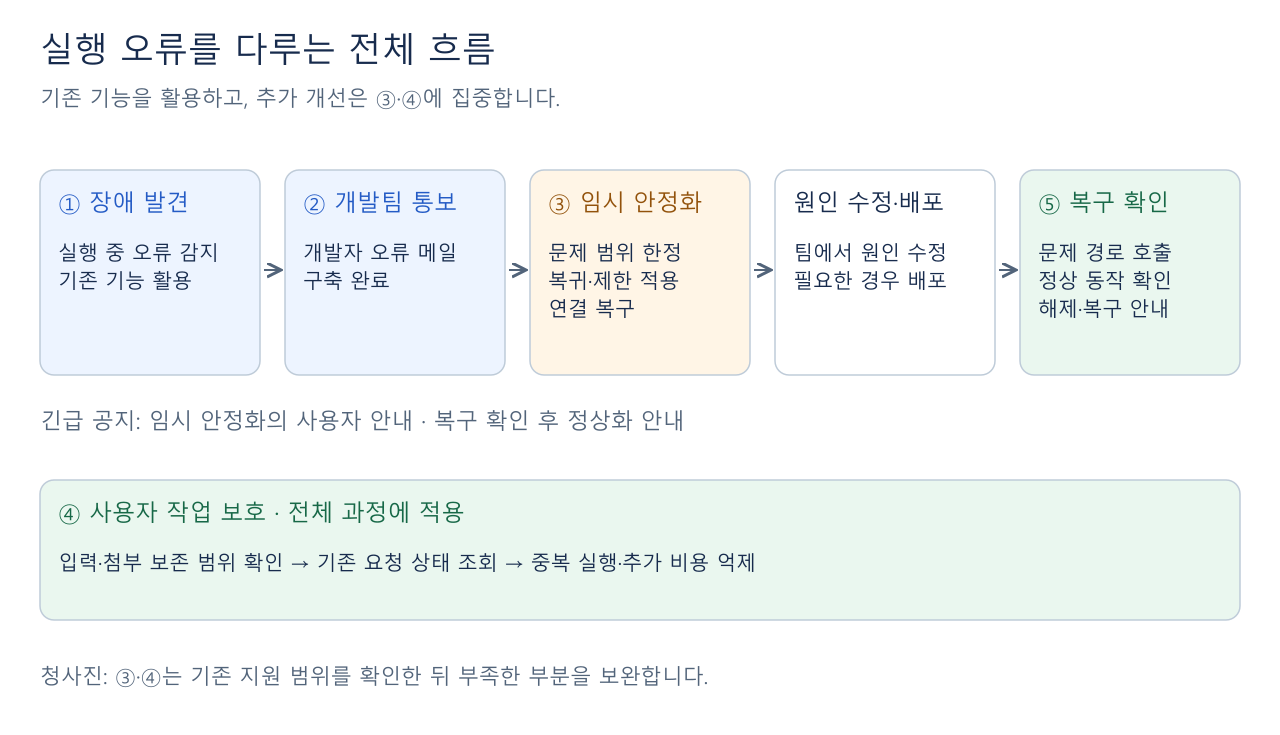
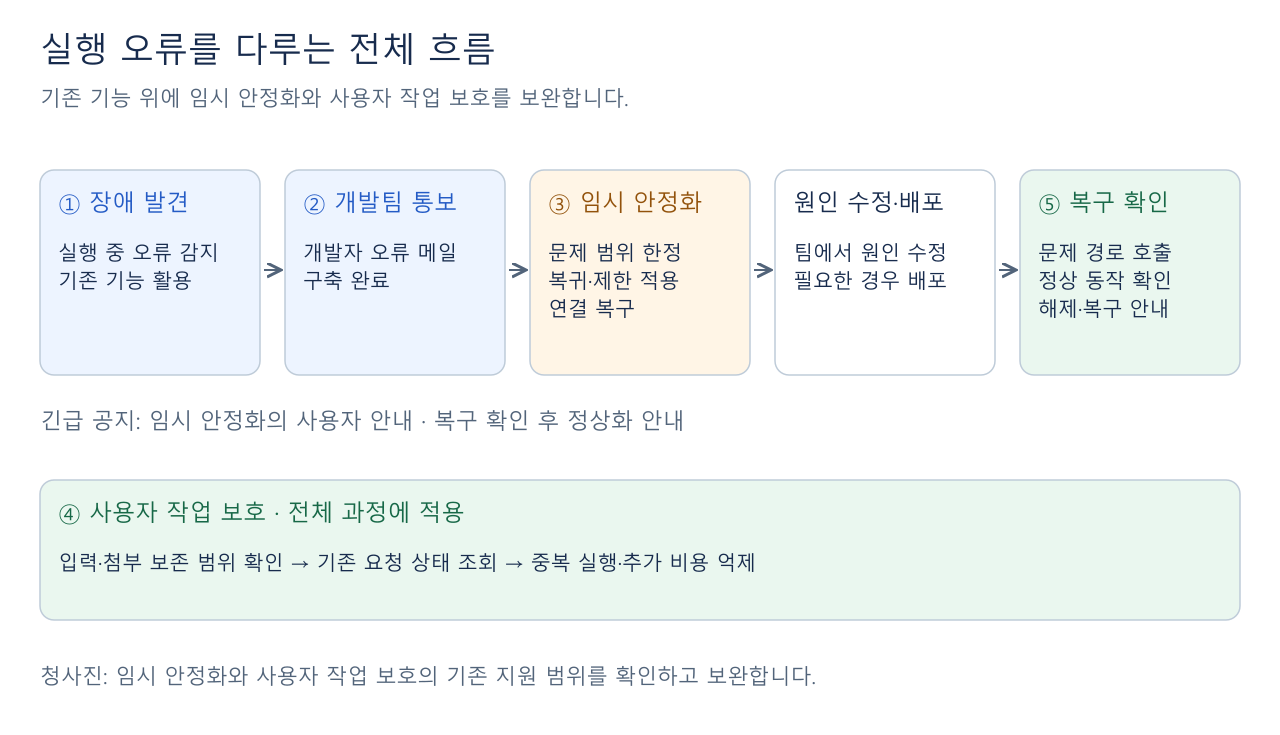
docs: 리스크 관리 단계의 숫자 약칭을 명칭으로 풀어쓰기

Changed region(s): [[0.0938, 0.898, 0.625, 0.9578], [0.0938, 0.1197, 0.5, 0.1497]]

diff --git a/ZENAI/99. 개선 내역/02. Enhancement/3. 사용자 리스크 관리 기준과 청사진 후보 (2026-11-09).md b/ZENAI/99. 개선 내역/02. Enhancement/3. 사용자 리스크 관리 기준과 청사진 후보 (2026-11-09).md
@@ -33,7 +33,7 @@
 
 [그림 확대](자료/03-user-risk-management/06-runtime-team-flow.svg) · [Excalidraw 원본](자료/03-user-risk-management/06-runtime-team-flow.excalidraw)
 
-**④는 전체 과정에 걸쳐 유지한다.** 팀은 원인을 조사·수정하고 필요한 경우 배포하며, 사용자 작업은 그동안 계속 보호한다.
+**사용자 작업 보호는 전체 과정에 걸쳐 유지한다.** 팀은 원인을 조사·수정하고 필요한 경우 배포하며, 사용자 작업은 그동안 계속 보호한다.
 
 > [!note] 긴급 공지의 위치
 > **긴급 공지는 ③ 임시 안정화의 사용자 안내 수단**이다. 오류 메일로 상황을 인지하면 기존 공지 기능으로 장애·주의사항을 알리고, 실제 복구를 확인한 뒤 복구 공지를 게시한다.
@@ -47,7 +47,7 @@
 | **팀의 운영 절차** | 원인 조사·수정, 필요한 배포, 실제 호출을 통한 복구 확인 |
 | **추가 개선** | **③ 임시 안정화·④ 사용자 작업 보호의 지원 범위를 조사하고 부족한 부분 보완** |
 
-③·④를 처음부터 모두 새로 만드는 것은 아니다. 초안 저장·중복 접수 방지 등 기존 기반을 먼저 활용한다.
+임시 안정화와 사용자 작업 보호를 처음부터 모두 새로 만드는 것은 아니다. 초안 저장·중복 접수 방지 등 기존 기반을 먼저 활용한다.
 
 ## 2. 리스크 관리가 잘 되는지 판단하는 기준
 
@@ -64,7 +64,7 @@
 | **확실한 복구** | 문제가 발생했던 실제 호출이 성공하고, 남은 미완료·결과 불명 작업도 확인했는가? |
 | **지속 가능한 운영** | 공통 대응 절차를 반복 적용할 수 있고, 재시작 후에도 필요한 실행 상태·조치 기록을 확인할 수 있는가? |
 
-### 2-2. 남은 ③·④에는 어떻게 적용하는가?
+### 2-2. 남은 임시 안정화와 사용자 작업 보호에는 어떻게 적용하는가?
 
 | 개선 대상 | 성공 여부를 판단할 핵심 |
 | --- | --- |
@@ -105,7 +105,7 @@
 | **C. 작업 확인 후 안전하게 재개** | 실행 중단·연결 끊김·처리 결과 불명 | 원래 요청과 외부 처리 결과를 확인해 안전한 단계만 재개한다. **기존 실행과의 중복을 막고 현재 권한을 확인한다.** |
 | **D. 계정·도구 문제만 복구** | 특정 사용자의 인증 만료·도구 연결 문제 | 해당 범위의 재인증·재연결을 안내한다. 정당한 권한 거절과 안전 거부는 유지한다. |
 
-**A·B·D는 주로 ③, C는 주로 ④와 연결된다.** 주된 역할에 따른 구분이며 여러 방법을 함께 쓸 수 있다. 모든 대응에서 사용자 작업 보호를 함께 적용한다.
+**A·B·D는 주로 임시 안정화, C는 주로 사용자 작업 보호와 연결된다.** 주된 역할에 따른 구분이며 여러 방법을 함께 쓸 수 있다. 모든 대응에서 사용자 작업 보호를 함께 적용한다.
 
 ### 4-2. 실행 중 어떤 상황에 어떤 방법이 적합한가?
 
@@ -136,11 +136,11 @@
 - **보호:** 기존 메시지·run/task 등 실행 기록으로 원래 요청을 조회하고, 필요한 기록만 보완한다. 업무 원문·첨부·인증정보를 별도 대응 기록에 복제하지 않는다.
 - **일관성:** 일반·생성 하네스·Builtin의 영향받은 실행 경로에 같은 보호 원칙을 적용한다.
 
-### 5-2. ③·④는 무엇부터 작업하는가?
+### 5-2. 임시 안정화와 사용자 작업 보호는 무엇부터 작업하는가?
 
-**③은 3-1의 세 가지 할 일을 장애 유형별 공통 대응 절차로 정리하고, 팀이 기존 수단으로 실행하는 것부터 시작한다.** 기존 수단으로 수행할 수 없는 제한·복구 동작만 기능을 보완한다.
+**임시 안정화는 3-1의 세 가지 할 일을 장애 유형별 공통 대응 절차로 정리하고, 팀이 기존 수단으로 실행하는 것부터 시작한다.** 기존 수단으로 수행할 수 없는 제한·복구 동작만 기능을 보완한다.
 
-**④는 기존 보존·상태 확인·중복 방지 기능을 조사한 뒤 부족한 부분부터 보완한다.** 외부 결과를 확인할 수 있는 특정 업무부터 안전한 재개를 검토한다.
+**사용자 작업 보호는 기존 보존·상태 확인·중복 방지 기능을 조사한 뒤 부족한 부분부터 보완한다.** 외부 결과를 확인할 수 있는 특정 업무부터 안전한 재개를 검토한다.
 
 여기서 **수동 대응**은 3-1의 판단·조치를 팀이 실행한다는 뜻이다. 문제 범위 판단 → 대응 적용 → 실제 호출 확인·해제를 공통 절차로 정리한다. 해당 실행 수단이 없으면 절차와 함께 기능 보완이 필요하다.
 
@@ -159,7 +159,7 @@
 | --- | --- | --- |
 | **1. 현재 기능과 사례 조사** | 입력·첨부·실행 상태의 보존 범위와 실제 실행 오류 확인 | 이미 지원하는 보호와 부족한 부분 구분 |
 | **2. 상황별 대응표 확정** | 오류별 조치·실행 조건·해제 조건 정리 | 팀이 함께 활용할 공통 대응 절차 |
-| **3. ③·④의 부족한 기능 보완** | 필요한 제한 수단·상태 안내·작업 보존·중복 방지 구현 | 기존 기능을 재사용한 최소 변경 |
+| **3. 임시 안정화와 사용자 작업 보호의 부족한 기능 보완** | 필요한 제한 수단·상태 안내·작업 보존·중복 방지 구현 | 기존 기능을 재사용한 최소 변경 |
 | **4. 동작과 부작용 검증** | 정상 기능 유지·보존·중복 방지·복구 확인 | 일반·하네스·Builtin의 영향받은 경로에서 실제 동작 확인 |
 | **5. 필요한 부분만 자동화 검토** | 반복 빈도·효과·오탐과 부작용을 보고 선택 | 검증된 조건 안에서 선택적으로 자동화 |
 
